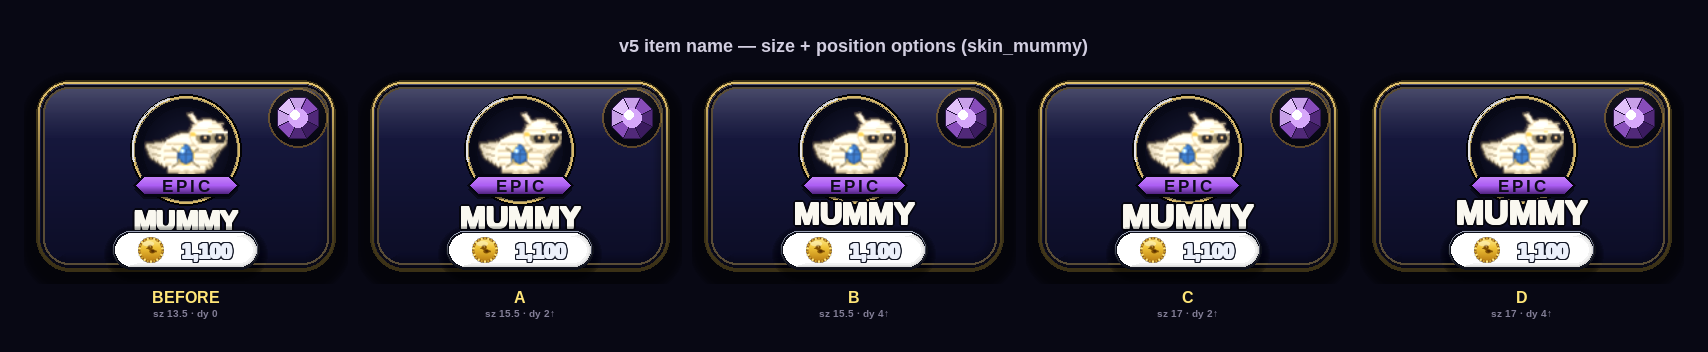
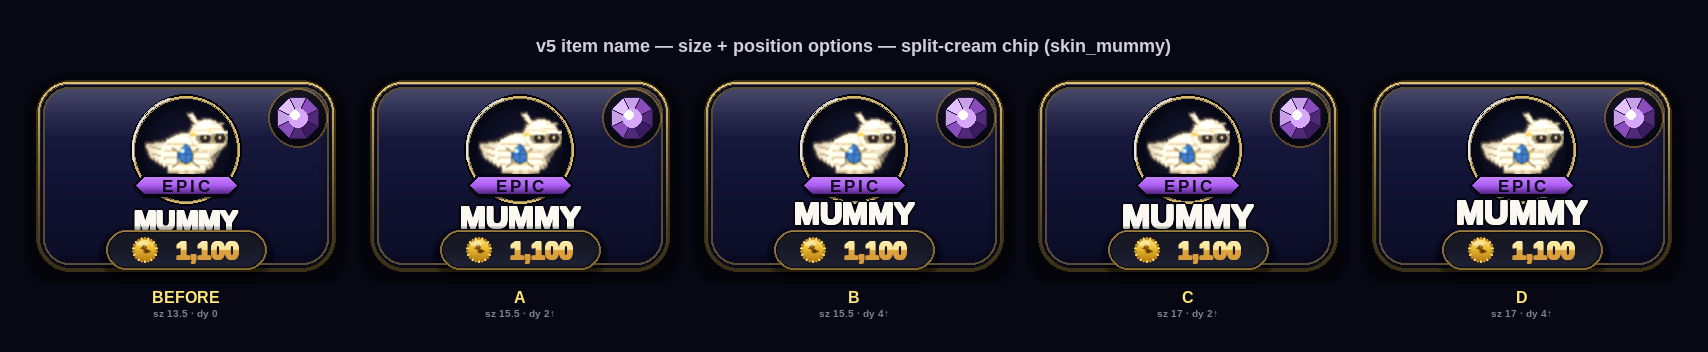
fix: name-size showcase now uses split-cream (design B) price chip
Previous version used the stock sc.draw_card chip; this uses
draw_card_split_cream so the name variants are shown on the actual
winning design. Same 5 options (BEFORE + A/B/C/D spanning sz 13.5→17
and y-shift 0→4 logical px up).

Claude-Session: https://claude.ai/code/session_01DaGYw11VdAubog2VGiiucC

diff --git a/tools/_store_card_v5_name_size_showcase.py b/tools/_store_card_v5_name_size_showcase.py
@@ -1,8 +1,8 @@
 """Item-name size + position options: BEFORE vs 4 variants.
 
-Patches sc._name_on per panel before calling sc.draw_card; no production
-code changes. Each panel is a full card (skin_mummy, affordable, no
-equipped flag) at SS scale.
+Uses the split-cream (design B) price chip from r3 round_2 as the base card.
+Patches sc._name_on per panel so each variant shows only the name change on
+top of the exact chip that won the design review.
 
 Output: docs/store_card_v5_name_size/showcase.png
 """
@@ -10,7 +10,6 @@ import os, sys
 os.environ.setdefault("SDL_VIDEODRIVER", "dummy")
 os.environ.setdefault("SDL_AUDIODRIVER", "dummy")
 sys.path.insert(0, os.path.join(os.path.dirname(__file__), ".."))
-
 import pygame
 pygame.init()
 pygame.display.set_mode((1, 1), pygame.NOFRAME)
@@ -26,17 +25,132 @@ _INSET = sc._INSET
 docs_dir = os.path.join(os.path.dirname(__file__), "..",
                         "docs", "store_card_v5_name_size")
 
+
+# ── split-cream chip (copied verbatim from _store_card_v5_price_chip_r3_split_cream_r2) ──
+
+def _gloss_corrected(surf, rect, radius, peak):
+    sweep = pygame.Surface(rect.size, pygame.SRCALPHA)
+    h = max(1, rect.h)
+    for y in range(h):
+        a = int(peak * (1 - y / h) ** 2.4)
+        pygame.draw.line(sweep, (a, a, a, 255), (0, y), (rect.w, y))
+    sm = pygame.Surface(rect.size, pygame.SRCALPHA)
+    pygame.draw.rect(sm, (255, 255, 255, 255), sm.get_rect(), border_radius=radius)
+    sweep.blit(sm, (0, 0), special_flags=pygame.BLEND_RGBA_MIN)
+    surf.blit(sweep, rect.topleft, special_flags=pygame.BLEND_ADD)
+
+
+def dark_chip_body(surf, r, radius, stops, rim_dark, rim_bright_3tup, gloss=12, gamma=1.04):
+    sc.drop_shadow(surf, r, radius, blur=sc.m(4), alpha=110, dy=sc.m(2))
+    surf.blit(sc.vgrad_stops(r.w, r.h, radius, stops, 255, gamma=gamma), r.topleft)
+    _gloss_corrected(surf, r, radius, peak=gloss)
+    sc.contact_shadow(surf, r, radius, sc.m(3), alpha=80)
+    pygame.draw.rect(surf, rim_dark, r, width=max(1, sc.m(1.6)), border_radius=radius)
+    sc.bevel_rim(surf, r, radius, rim_dark, (*rim_bright_3tup, 235), w=max(1, sc.m(1.5)))
+
+
+def price_chip_split_cream(surf, cx, cy, text, h, affordable=True):
+    coin_d = int(h * 0.66)
+    pad    = sc.m(13)
+    gapc   = sc.m(8)
+    f      = sc.font(h * 0.62 / sc.SS)
+    nw     = sc._glyph_base(text, f, 0).get_width() + sc.m(2)
+    w      = pad + coin_d + gapc + nw + pad
+    rad    = h // 2
+    r      = pygame.Rect(cx - w // 2, cy - h // 2, w, h)
+    if affordable:
+        dark_chip_body(surf, r, rad, [(0.0, (12, 13, 22)), (1.0, (34, 37, 56))],
+                       (8, 10, 20), (60, 65, 100), gloss=12, gamma=1.04)
+        coin_rim = (180, 150, 60)
+        cool_coin = None
+        rim_a = 150
+    else:
+        dark_chip_body(surf, r, rad, [(0.0, (10, 11, 20)), (1.0, (26, 28, 44))],
+                       (8, 10, 20), (60, 65, 100), gloss=12, gamma=1.04)
+        coin_rim = (120, 110, 80)
+        cool_coin = (70, 74, 84, 180)
+        rim_a = 80
+    rim_surf = pygame.Surface((r.w, r.h), pygame.SRCALPHA)
+    pygame.draw.rect(rim_surf, (220, 170, 60, rim_a), rim_surf.get_rect(),
+                     width=max(1, sc.m(1)), border_radius=rad)
+    surf.blit(rim_surf, r.topleft)
+    x   = r.x + pad
+    ccx = x + coin_d // 2
+    sc.coin_glyph(surf, ccx, cy, coin_d // 2, rim=coin_rim)
+    if cool_coin is not None:
+        cr   = coin_d // 2
+        tint = pygame.Surface((coin_d, coin_d), pygame.SRCALPHA)
+        pygame.draw.circle(tint, cool_coin, (cr, cr), cr)
+        surf.blit(tint, (ccx - cr, cy - cr))
+    x  += coin_d + gapc
+    nx  = x + nw // 2
+    if affordable:
+        mask = sc._stamp_bold(sc._glyph_base(text, f, 0), sc.m(1.0))
+        grad = sc.vgrad_stops(mask.get_width(), mask.get_height(), 0,
+                              [(0.0, (255, 244, 196)), (0.48, (250, 228, 148)),
+                               (0.52, (224, 164, 62)), (1.0, (210, 150, 60))],
+                              255, 1.0)
+        img = mask.copy()
+        img.blit(grad, (0, 0), special_flags=pygame.BLEND_RGBA_MULT)
+        surf.blit(img, img.get_rect(center=(nx, cy)))
+    else:
+        sc.plain_text(surf, text, f, (nx, cy), color=(150, 140, 110),
+                      shadow_a=0, weight=sc.m(1.0))
+    return r
+
+
+def draw_card_split_cream(surf, sid, rect, affordable=True):
+    """Full card draw using the split-cream price chip, calling sc._name_on so
+    monkey-patching it changes only the name rendering."""
+    m   = sc.m
+    pal = sc.RARITY[sc._rarity(sid)]
+    rad = m(sc.CARD_RAD)
+    sc.drop_shadow(surf, rect, rad, blur=m(8), alpha=160, dy=m(4))
+    surf.blit(sc.vgrad(rect.w, rect.h, rad, sc.CARD_T, sc.CARD_B, 252, gamma=1.15),
+              rect.topleft)
+    sc.top_sheen(surf, rect, rad, m(30), peak=62)
+    sc.contact_shadow(surf, rect, rad, m(9), alpha=120)
+    pygame.draw.rect(surf, (4, 5, 16), rect, width=max(1, m(2)), border_radius=rad)
+    sc.bevel_rim(surf, rect, rad, sc.CARD_RING_DEEP, (*sc.CARD_RING_BRIGHT, 235),
+                 w=max(1, m(2.0)))
+    tray = rect.inflate(-m(7), -m(7))
+    trad = rad - m(4)
+    pygame.draw.rect(surf, (10, 10, 24, 200), tray.inflate(m(2), m(2)),
+                     width=max(1, m(1)), border_radius=trad + m(1))
+    pygame.draw.rect(surf, (*sc.CARD_RING_BRIGHT, 90), tray, width=max(1, m(1)),
+                     border_radius=trad)
+    cx, cy = rect.centerx, rect.y + m(sc.CY_DISC) + sc._DOME_DY
+    sc.soft_glow(surf, cx, cy, sc._DOME_R + m(3), pal["glow"], 30, layers=8)
+    sc.cabochon(surf, cx, cy, sc._DOME_R, sc.CABO_LO, sc.CABO_HI,
+                ring=pal["gem"], ring_a=50)
+    name = sc._name(sid)
+    sc.cabochon_glass(surf, cx, cy, sc._DOME_R, tint=pal["gem"])
+    sc.blit_thumb(surf, sid, cx, cy - sc._ITEM_DY, sc._BOX_PX)
+    sc.facet_gem(surf, rect.right - m(19), rect.y + m(19), m(sc.GEM_R + 3),
+                 pal["gem"], pal["deep"], mystery=False)
+    tier_word = sc._rarity(sid).upper()
+    sc._ribbon_lozenge(surf, tier_word, cx, rect.y + m(55) - sc._RIBN_DY,
+                       rect.w - m(34), pal)
+    # name is drawn via sc._name_on so monkey-patching it controls this call
+    sc._name_on(surf, name, cx, rect.y + m(70), rect.w - m(26))
+    price = f"{sc._cost(sid):,}"
+    price_chip_split_cream(surf, cx, rect.y + m(88) - sc._CHIP_DY, price,
+                           m(20), affordable=affordable)
+
+
+# ── name variants ─────────────────────────────────────────────────────────────
+
 _orig_name_on = sc._name_on
 
 
 def make_name_on(sz_logical, dy_logical):
-    """Return a _name_on drop-in that shifts center-y up by dy_logical logical px."""
+    """Closure: replace _name_on with given logical font-size and y-shift (up = positive)."""
     def _patched(surf, name, cx, cy, max_w):
         sz = sz_logical
-        f = sc.font(sz)
+        f  = sc.font(sz)
         while sc._glyph_base(name, f, 0).get_width() > max_w and sz > 9:
             sz -= 0.5
-            f = sc.font(sz)
+            f   = sc.font(sz)
         sc.plain_text(surf, name, f, (cx, cy - sc.m(dy_logical)),
                       (250, 248, 240), shadow_a=160,
                       weight=sc.m(0.9), keyline=(6, 6, 16), kw=sc.m(1.0))
@@ -49,13 +163,13 @@ def render_card(sz_logical, dy_logical):
     rect = pygame.Rect(sc.m(_INSET), sc.m(_INSET),
                        CARD_W - 2 * sc.m(_INSET),
                        CARD_H - 2 * sc.m(_INSET))
-    sc.draw_card(surf, SID, rect, equipped=False, secret=False)
+    draw_card_split_cream(surf, SID, rect, affordable=True)
     sc._name_on = _orig_name_on
     return surf
 
 
-# ── options ──────────────────────────────────────────────────────────────────
-# (panel-id, sublabel, font-sz-logical, y-shift-logical)
+# ── options ───────────────────────────────────────────────────────────────────
+# (panel-id, sublabel, font-sz-logical, y-shift-logical-px-up)
 OPTIONS = [
     ("BEFORE", "sz 13.5 · dy 0",  13.5, 0),
     ("A",      "sz 15.5 · dy 2↑", 15.5, 2),
@@ -64,7 +178,7 @@ OPTIONS = [
     ("D",      "sz 17 · dy 4↑",   17.0, 4),
 ]
 
-# ── layout ───────────────────────────────────────────────────────────────────
+# ── layout ────────────────────────────────────────────────────────────────────
 BG     = (8, 8, 20)
 MARGIN = 24
 GAP    = 10
@@ -80,21 +194,21 @@ canvas.fill(BG)
 
 hf   = hud_font(18, True)
 htxt = hf.render(
-    f"v5 item name — size + position options ({SID})",
+    f"v5 item name — size + position options — split-cream chip ({SID})",
     True, (210, 206, 224))
 canvas.blit(htxt, ((canvas_w - htxt.get_width()) // 2,
                    MARGIN + (HDR_H - htxt.get_height()) // 2))
 
-lbl_id = hud_font(16, True)
-lbl_sm = hud_font(10, False)
+lbl_id  = hud_font(16, True)
+lbl_sm  = hud_font(10, False)
 panel_y = MARGIN + HDR_H
 
 for col, (oid, sublabel, sz, dy) in enumerate(OPTIONS):
-    x = MARGIN + col * (CARD_W + GAP)
+    x    = MARGIN + col * (CARD_W + GAP)
     card = render_card(sz, dy)
     canvas.blit(card, (x, panel_y))
 
-    ly = panel_y + CARD_H + 4
+    ly  = panel_y + CARD_H + 4
     tid = lbl_id.render(oid, True, (255, 230, 120))
     canvas.blit(tid, (x + (CARD_W - tid.get_width()) // 2, ly))
     ly += tid.get_height() + 1
@@ -103,6 +217,6 @@ for col, (oid, sublabel, sz, dy) in enumerate(OPTIONS):
     canvas.blit(t, (x + (CARD_W - t.get_width()) // 2, ly))
 
 out = os.path.join(docs_dir, "showcase.png")
-os.makedirs(os.path.dirname(out), exist_ok=True)
+os.makedirs(out.rsplit("/", 1)[0], exist_ok=True)
 pygame.image.save(canvas, out)
 print(f"Saved: {out}  ({canvas_w}×{canvas_h})")
